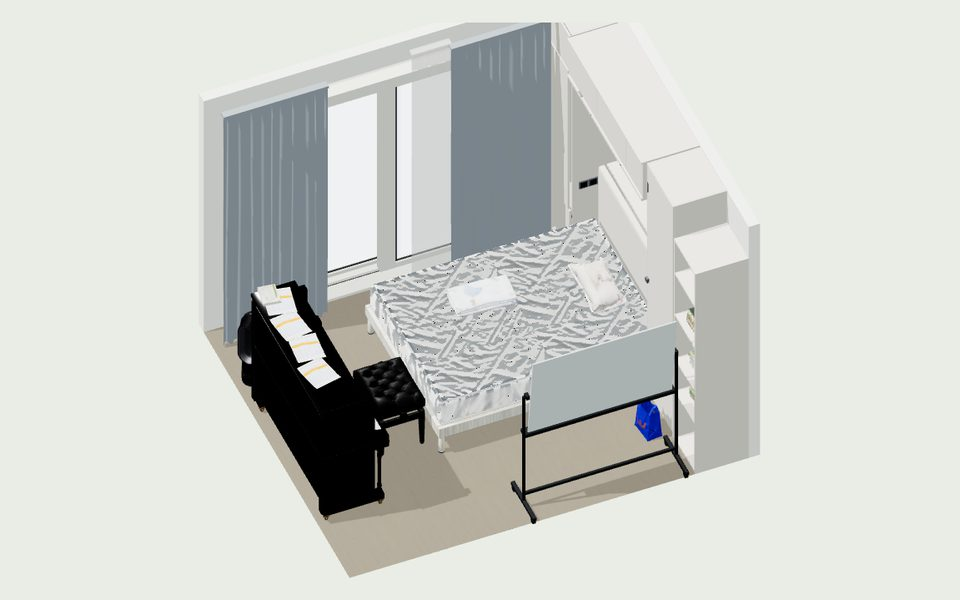
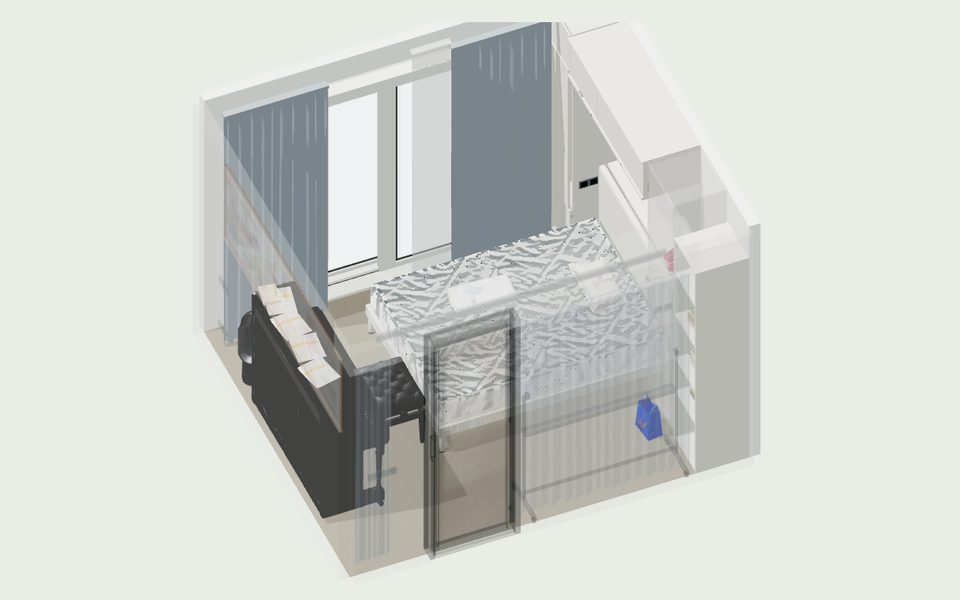
samples: room3's piano opens — the TRELLIS piano of the articulation trial, lid and fallboard on hinges (#20)
Method 2 of the trial (runs/articulation-trials-20261019): the whole piano rebuilt by TRELLIS.2, the
fallboard and top lid cut out where Astra marked them, each on its hinge. In Room.glb only Table0_Static's
mesh changes; the two parts and their dark cavities hang under it, everything else is untouched. The
piano's two textures go from 4096 to 1024 like the room's other rebuilt pieces (66.5 -> 69.7 MB).
room_objects.json from the new Table0.urdf: exactly two more joints. check_room 23/23, new thumbnail.

Changed region(s): [[0.2188, 0.24, 0.7812, 0.93], [0.5938, 0.36, 0.625, 0.39]]

diff --git a/docs/HANDOFF.md b/docs/HANDOFF.md
@@ -66,6 +66,7 @@
   3. 枕头、叠被、粉色包打开时是“支撑边缘不足”（TRELLIS 底面不平），挪一下能落稳；书架上的书因书架本身“待调整”而显示未落稳。
   4. TRELLIS 默认模式下，书架上的书堆后处理要多占 7.9 GB 显存，3090 放不下；流程会自动隔离并用 512 模式重做（模型略粗）。
 - 已替换 `samples/room3`（2026-10-18，用户同意，#10 已合并）：`Room.glb` 由 99.7 MB 无损缩到 66.5 MB——8 件 TRELLIS 物件和一批盒子、圆柱的法线就是面法线，去掉后 three.js 自动平面着色，画面不变，再合并完全相同的顶点；贴图、材质、节点名都没动。`room_objects.json` 用服务器结果（保留手写名字，谱架已舍弃）；`check_room` 23/23。同视角与原 99.7 MB 文件逐像素对比：俯视 0 像素不同，整体视角 85 万像素中 7 个不同（编辑器按 glTF 规范给无法线网格补面法线，阴影偏移才一致）。新房间里“是否放稳”的判断原来每次刷新 0.7 秒，手势帧会过期；支撑面三角形改用网格索引后 23 毫秒，在 room3、office 上随机布局 4078 项对比与原结果完全相同。
+- 再次替换 `samples/room3`（2026-10-19，用户要求）：钢琴（Table0）换成可动物体试验方法 2 的 TRELLIS 钢琴，顶盖和琴键盖能在“预览”里打开，谱子随顶盖转。做法：gltf-transform 只换 `Table0_Static` 的网格、把 `Table0_Fallboard`/`Table0_TopLid` 和两个深色内腔挂在它下面，其他数据原样；钢琴的两张 TRELLIS 贴图从 4096 降到 1024（和房间里其他 TRELLIS 物件一致，同视角拉近看不出差别），`Room.glb` 66.5 → 69.7 MB。`room_objects.json` 用新的 `Table0.urdf`（`runs/articulation-trials-20261019/`）重新生成，只多了这两个关节；`check_room` 23/23，缩略图已重拍。已知：琴键盖合上只盖住琴键后半；翻开后在谱子下面，从上往下点不回来。
 
 ## ViewForge 和手势（PR #5 合进来的，lyk 的部分）
 
@@ -78,7 +79,7 @@
 
 2026-10-19 补：放在部件上的东西跟着动（用户提出：office 升降桌升起时桌上的东西不动、钢琴顶盖掀开时谱子悬着）。`joints.mjs` 的 `ridersOf` 在打开房间时按形状找出同组里底部压在部件上的物件，部件动时它们做同样的世界变换，关上时恢复原位。office 升降桌带上桌面 15 件（升 0.151 米），room3 试验钢琴的顶盖带上 4 份谱子（书压在谱子上，跟谱子走）。
 
-**可动物体试验（2026-10-19）**：room3 钢琴三种做法的对比在服务器 `runs/articulation-trials-20261019/`（`compare/overview.jpg`、`summary.md`），本机 `~/Downloads/RoomCanvas-runs/articulation-trials-20261019/`。方法 2（整台 TRELLIS、Astra 标部件再切开）的钢琴已接进本机试验房间 `samples/room3-piano-m2/`（不进 git，`.git/info/exclude`；含私人房间数据），编辑器 `?scene=../../samples/room3-piano-m2`。另外发现服务器 `runtime/bin/codex` 链接到已挪进 `archive/` 的 `scripts/codex_api.sh`，`run_room.py` 的 Astra 调用现在会失败，未修，待用户决定。
+**可动物体试验（2026-10-19）**：room3 钢琴三种做法的对比在服务器 `runs/articulation-trials-20261019/`（`compare/overview.jpg`、`summary.md`），本机 `~/Downloads/RoomCanvas-runs/articulation-trials-20261019/`。方法 2（整台 TRELLIS、Astra 标部件再切开）的钢琴先在本机试验房间 `samples/room3-piano-m2/`（不进 git，`.git/info/exclude`）试过，2026-10-19 换进了正式 `samples/room3`（见上文“小物件这一步的 room3 结果”）。另外发现服务器 `runtime/bin/codex` 链接到已挪进 `archive/` 的 `scripts/codex_api.sh`，`run_room.py` 的 Astra 调用现在会失败，未修，待用户决定。
 
 用户要柜子等能打开。重建时 Astra 生成的程序化物体本来就带关节（`runs/<运行>/pipeline/<场景>/realism_authoring/room/Objects/*/<物体>/sim/<物体>.urdf`，含合页位置、方向、角度范围），只是没传到网页。做了两步：`room_objects.py` 把能和 `Room.glb` 对上的关节写进 `room_objects.json` 的 `joints`（两个示例已用服务器数据重新生成，除新增 `joints` 外与原文件完全相同）；编辑器“预览”模式点门、柜门、窗开合（`web/editor/joints.mjs`），回“布置”全部关上。柜体节点带不均匀缩放，门板挂在柜体下、原点就在合页上，所以按世界里的合页线刚体转动，不在柜体坐标里转（否则变形）。用 Chromium 验证：room3 6 扇柜门和房门、office 两扇窗、升降桌、房门都能开合，转开后部件世界尺寸不变。没做的：手势开门（用户说先不做）；office 抽屉在重建里没有滑轨，要开得改房间重建让 Astra 把抽屉做成活动部件。
 
